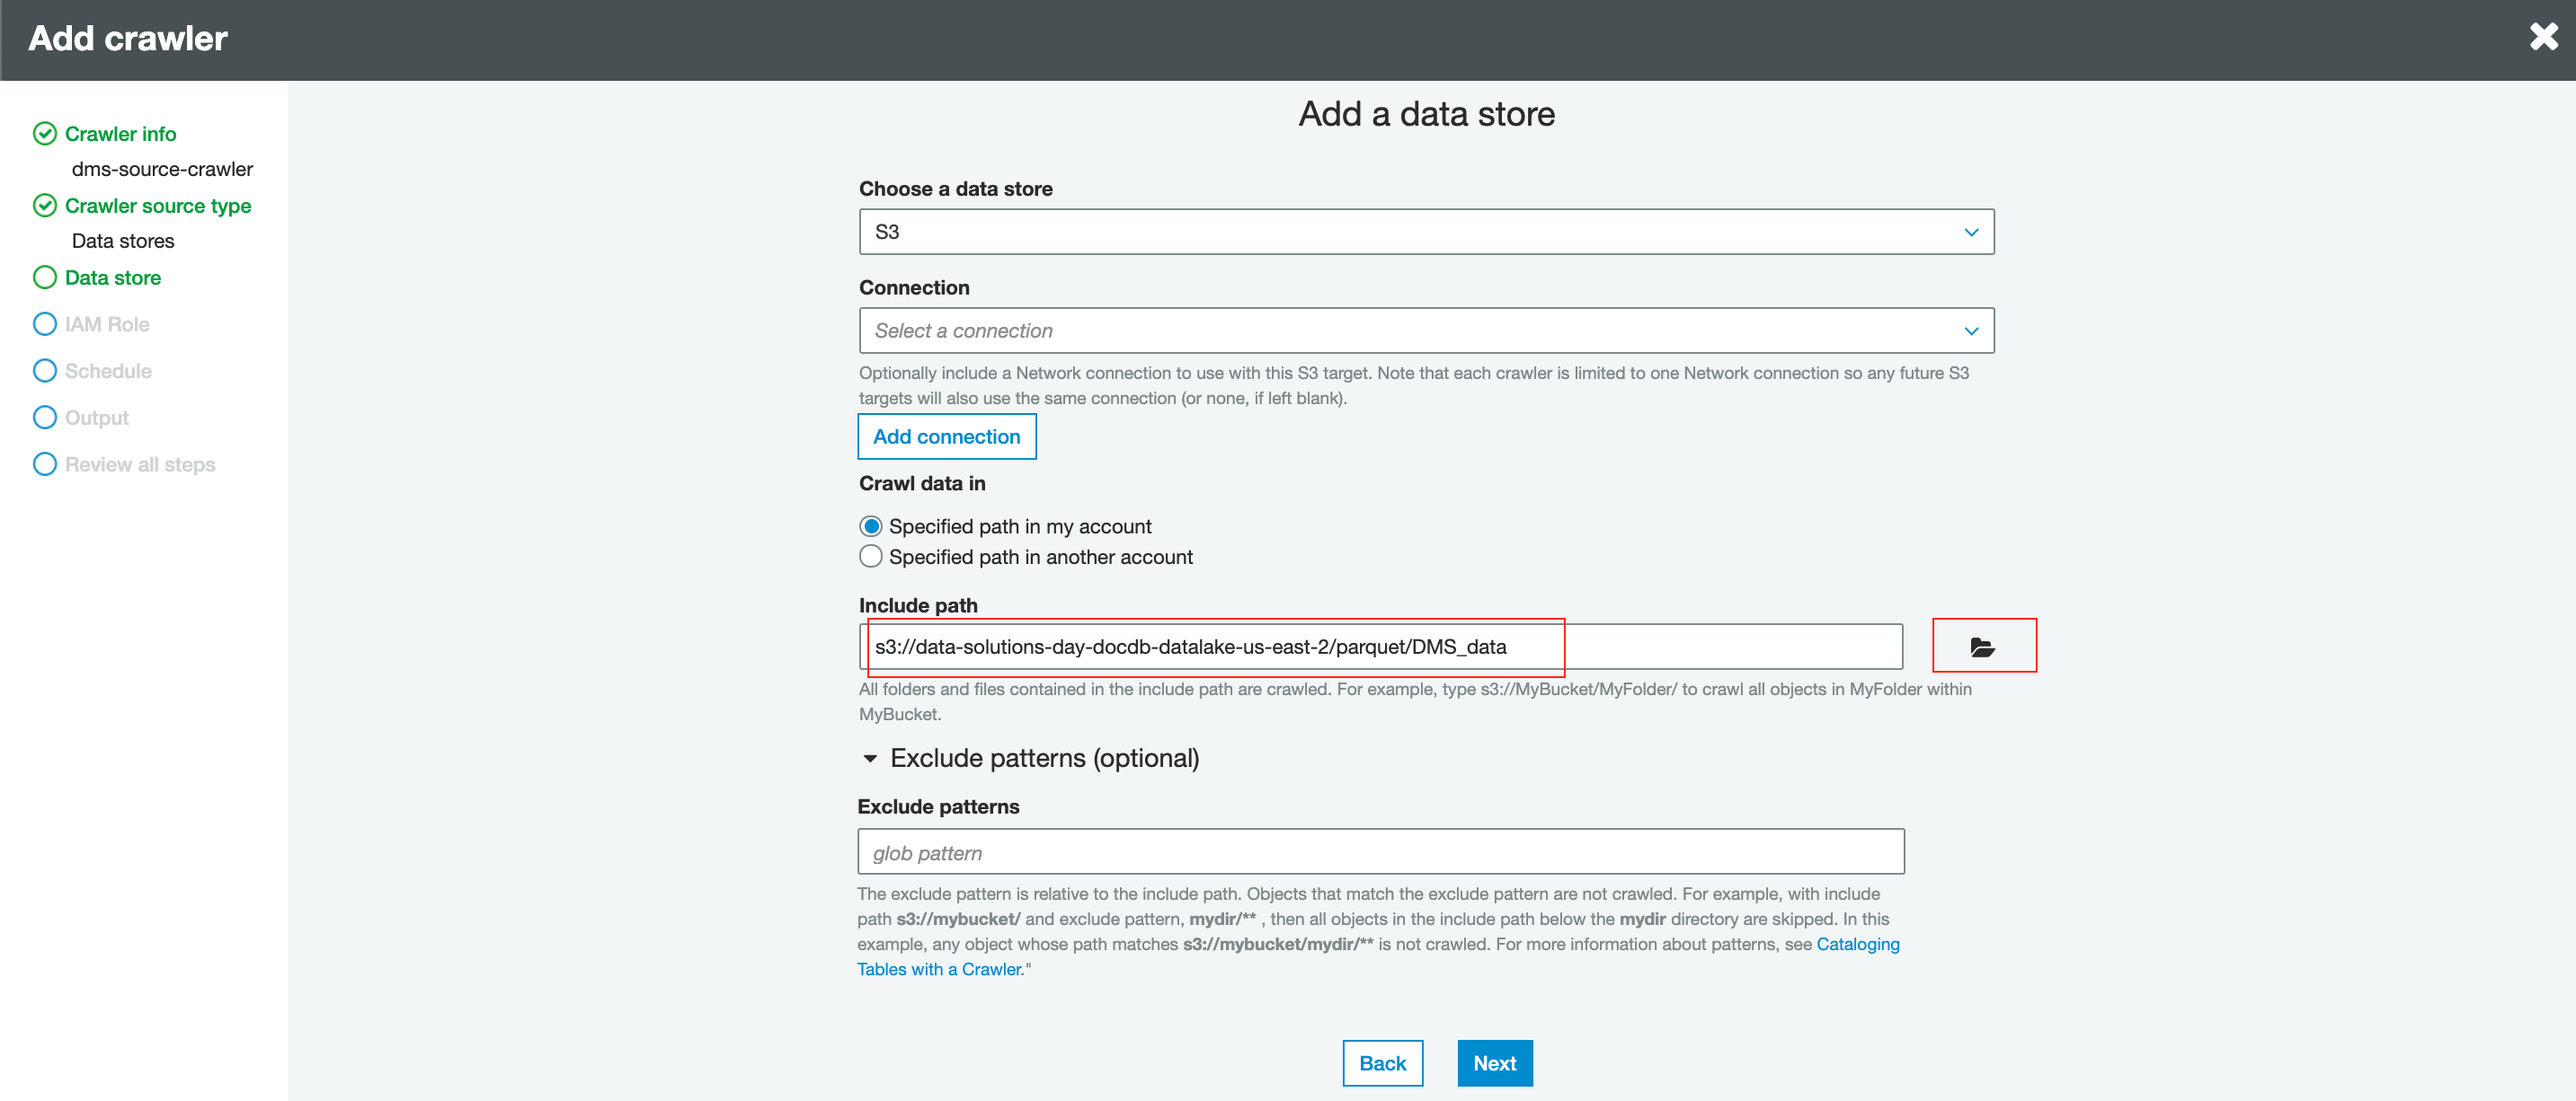
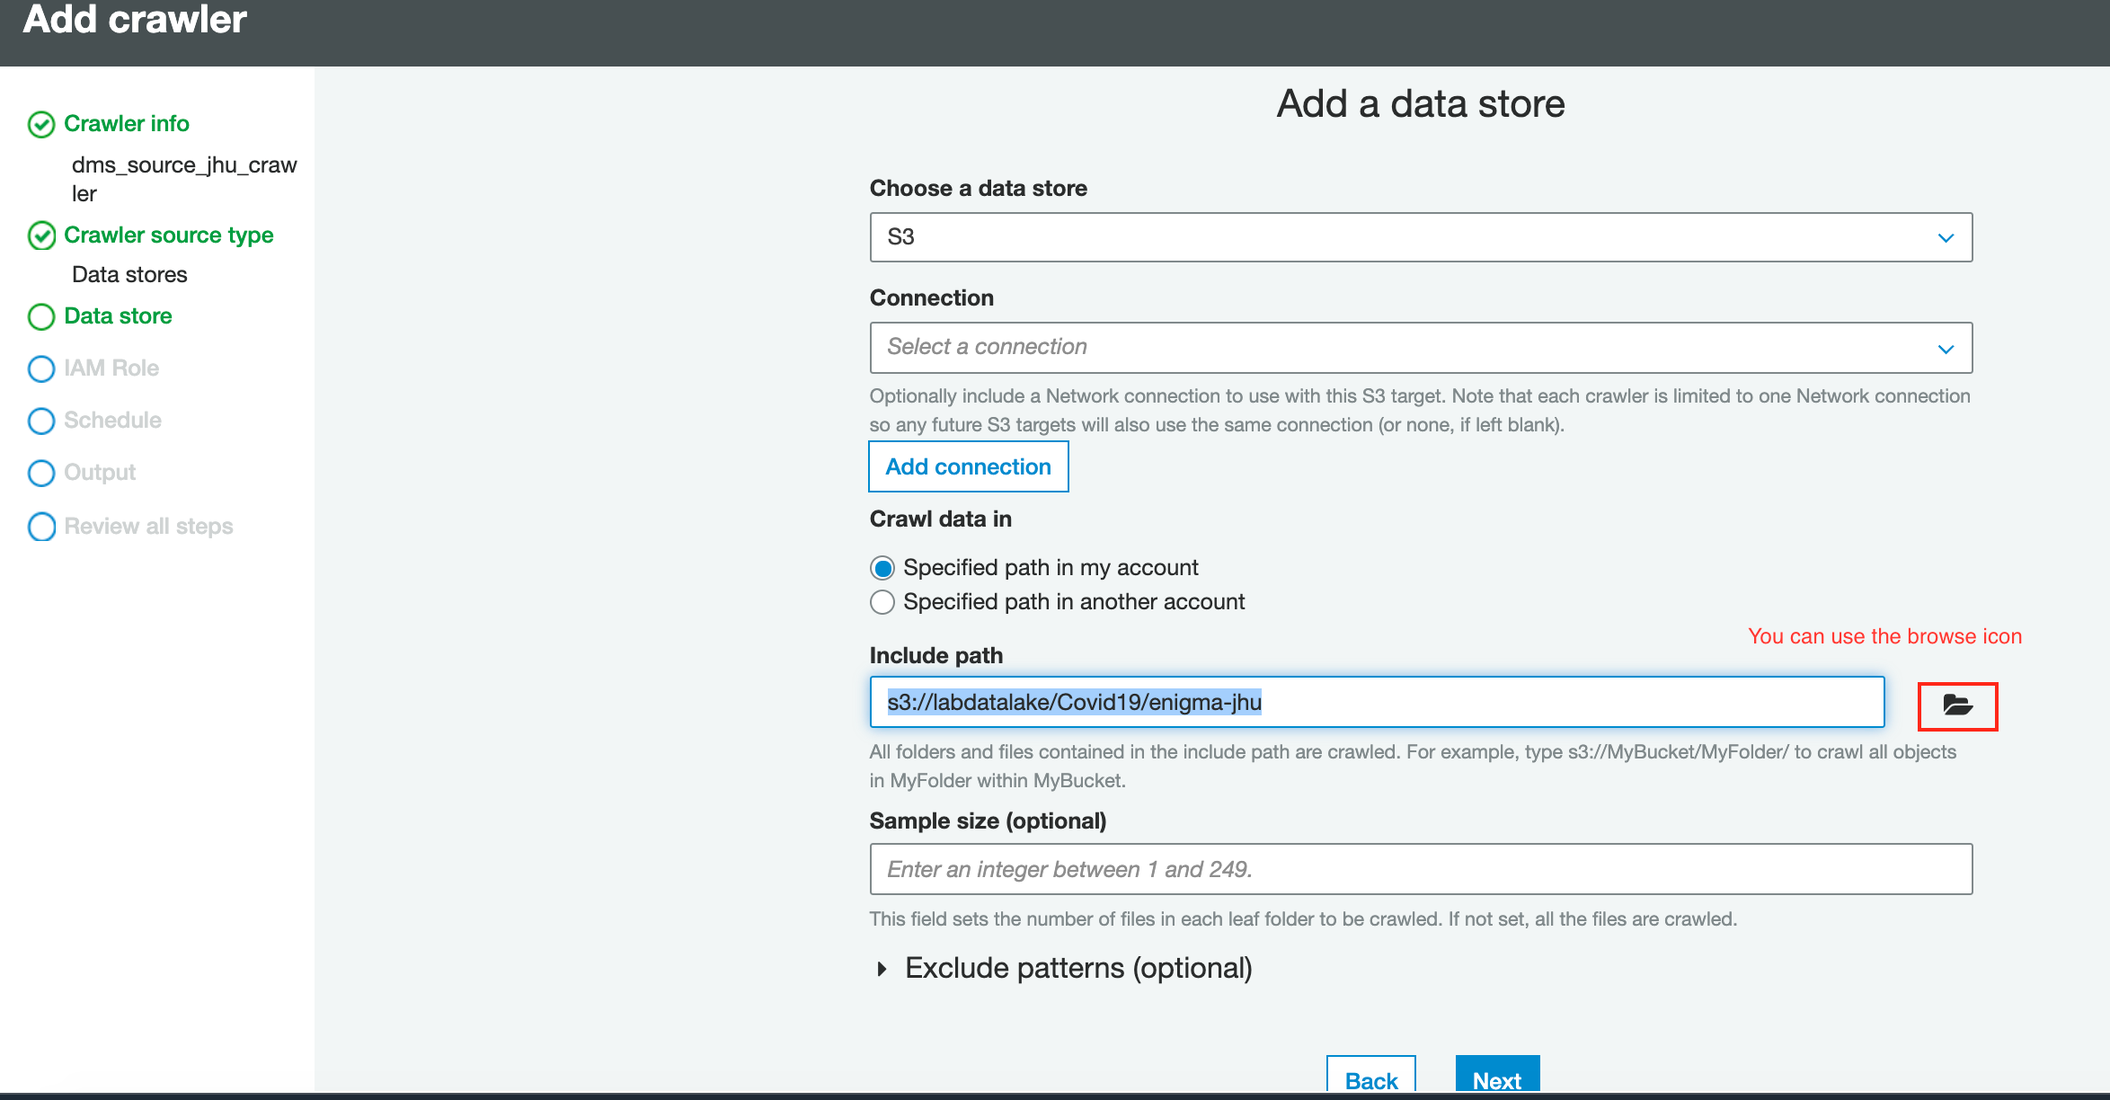
updated data lake exploration labs 1,2,3,4

diff --git a/workshop/content/ExploringDataLake/Lab1/_index.md b/workshop/content/ExploringDataLake/Lab1/_index.md
@@ -1,51 +1,71 @@
 +++
-title = "Create Glue Data Catalog"
+title = " Catalog raw data with Glue crawler "
 date = 2021-03-17T18:13:14-04:00
 weight = 41
 chapter = true
 +++
 
 
-
-1.  Use AWS Management Console to search for `AWS Glue` and if using Google Chrome, right click and open in new tab in the browser as shown
+#### Create Glue crawler #1
+1.  Use AWS Management Console to search for `AWS Glue` and if using Google Chrome, right click and open in new tab in the browser as shown. Make sure region is Ohio.
 {{< img "search-glue.png" "search glue" >}}
-1.1 On Glue console, in left navigation pane, click on Cralwers>Add crawler
+1.1 On [Glue console](https://us-east-2.console.aws.amazon.com/glue/home?region=us-east-2), in left navigation pane, click on Cralwers>Add crawler
 {{< img "crawler-console.png" "go to crawler" >}}
-1.2 Enter Crawler name as `dms-source-crawler` and click Next
+1.2 Enter Crawler name as `dms_source_jhu_crawler` and click Next
 {{< img "crawler1.png" "go to crawler1" >}}
 1.3 Select default selection of Crawler source type as Data stores and Repeat crawls of S3 data stores as Crawl all folders. Click Next       
 1.4 For Add a data store- 
     keep S3 selected, 
     Connection as blank, 
     Crawl data in with Specified path in my account, 
-    Include path select the S3 bucket and folder where the DMS ingested parquet data is stored as shown and click Next
-    {{< img "crawler-datastore.png" "crawler data store" >}}
+    Include path select the S3 bucket and folder where the DMS ingested data is stored as shown `s3://labdatalake/Covid19/enigma-jhu` and click Next
+    {{< img "crawler-datastore.png" "jhu crawler data store" >}}
 1.5 For Add another data store keep default as No and click Next
-1.6 For Choose an IAM role - select as show below and click Next
+1.6 For Choose an IAM role - select as shown below, provide suffix as `labdatalake` and click Next
     {{< img "crawler-role.png" "crawler role" >}}
-1.7 For Schedule, pick Run on demand option and click Next
-1.8 For Output, click on Add database, and input `dms-docdb` as Database name and click Create  
+1.7 For Schedule, pick Run on demand option and click Next    
+1.8 For Output, click on Add database, and input `dms_docdb` as Database name and click Create  
     button. Then click Next after leaving everything thing else as default
     {{< img "crawler-add-database.png" "crawler database" >}}
     {{< img "crawler-add-database2.png" "crawler database2" >}}
-1.9 At last, review everything and click Finish
-    {{< img "crawler-review.png" "crawler review" >}}
+1.9 At last, review everything and click Finish.   
 1.10 It brings you back to Crawler console with a new crawler added. You select it using checkbox 
-    before it and click on Run crawler to run it. You will see as below -
+    before it and click on Run crawler button to run it. You will see as below -
     {{< img "crawler-run.png" "crawler run" >}}
     {{< img "crawler-starting.png" "crawler starting" >}}
     {{< img "crawler-stopping.png" "crawler stopping" >}}
-1.11 Once you see (about in 1 min.) crawler is in Ready status and 2 tables are added
+1.11 Once you see ( takes about 1 min.) crawler is in Ready status and 1 table was added
     {{< img "crawler-ready.png" "crawler ready" >}}
 
-2. From left navigation, click Databases and you will new database got added as below
-    {{< img "check-database.png" "check database" >}}
-    2.1 Click on the database `dms-docdb` and then click on Tables in dms-docdb to see the two tables got added by the crawler. Click on each to explore the schema.
-        {{< img "click-database.png" "click database" >}}
-        {{< img "view-tables.png" "view tables" >}}
-    for example: table1 schema is like this. Similary you can check schema for table2 as well -
-    {{< img "table1-schema1.png" "table1-schema1" >}}
-    {{< img "table1-schema.png" "table1 schema" >}}
+#### Create Glue crawler #2
+2. On Glue console, in left navigation pane, click on Crawlers>Add crawler   
+ 2.1 Enter Crawler name as `dms_source_hosp_bed_crawler` and click Next
+{{< img "crawler2.png" "go to crawler2" >}}
+ 2.2 For Crawler source type keep everything as default and Click Next       
+ 2.3 For Add a data store- 
+    keep S3 selected, 
+    Connection as blank, 
+    Crawl data in with Specified path in my account, 
+    Include path select the S3 bucket and folder where the DMS ingested data is stored as shown `s3://labdatalake/Covid19/rearc-usa-hospital-beds` and click Next
+    {{< img "crawler2-datastore.png" "jhu crawler data store" >}}
+2.4 For Add another data store keep default as No and click Next   
+2.5 For Choose an IAM role - select the first option of *Update a policy in an IAM role* and for IAM role, select the previously created role eg: 
+    `AWSGlueServiceRole-labdatalake` as shown below. This will add the data store path to the role policy to allow Glue to work on your behalf. Click Next
+    {{< img "existing-crawler-role.png" "existing crawler role" >}}
+2.6 For Schedule, pick Run on demand option and click Next   
+2.7 For Output, from drop down pick previously created database `dms_docdb` as Database 
+    Then click Next after leaving everything thing else as default
+    {{< img "crawler-existing-pick-database.png" "crawler pick existing database" >}}
+2.8 At last, review everything and click Finish   
+2.9 It brings you back to Crawler console with the new crawler added. You select it using checkbox 
+    before it and click on Run crawler button to run it as before. It goes through same stages as it did previously.  
+2.10 Once you see (takes about 1 min.) crawler is in Ready status and 1 table was added
+    {{< img "hosp-crawler-ready.png" "hosp-crawler ready" >}}
+
+
+3. From left navigation, click Databases and click on the `dms_docdb` and then click on Tables in dms-docdb to see the two tables got added by the crawler. Click on each to 
+   explore the schema. For example, enigma_jhu schema would look like this -
+   {{< img "enigma_jhu_schema.png" "enigma_jhu_schema" >}}
 
 
 

diff --git a/workshop/content/ExploringDataLake/Lab2/_index.md b/workshop/content/ExploringDataLake/Lab2/_index.md
@@ -1,8 +1,56 @@
 +++
-title = "Query using Athena"
+title = "Transform data using Glue Studio"
 date = 2021-03-17T18:13:14-04:00
 weight = 42
 chapter = true
 +++
 
-`Lab description goes here`
+In this lab we will use the source tables we created using crawlers in previous lab, to create ETL job using AWS Glue Studio. AWS Glue studio provides visual style of ETL coding, making it simple for ETL developers to write spark code. We will leverage Glue's capability to auto create ETL code to convert source data from CSV to PARQUET format. [Parquet](https://parquet.apache.org/) is an open source, columnar file format which very effective for running analytics queries on distributed data engines.
+
+#### Create ETL job#1
+1.  Go to [Glue Studio](https://us-east-2.console.aws.amazon.com/gluestudio/home?region=us-east-2#/) from AWS Management Console or through AWS Glue console and click on Jobs.
+    Ensure AWS region is still us-east-2 or Ohio
+    {{< img "glue-studio-landing.png" "glue-studio-landing" >}}  
+1.1 For the lab our source and target both are on S3, so we will keep the default on Jobs landing page and click Create
+    {{< img "click-create-job.png" "click-create-job" >}}  
+1.2 You will see the Visual canvas as shown below. Click on first object or node on the visual graph, to reveal its configuration properties on the right.
+Input the configuration as shown below
+    {{< img "set-data-source1.png" "set-data-source1" >}}  
+1.3 Next node is ApplyMapping transform node. Click on it provide details for this node configuration. Click on Choose IAM role button and select the same role you created for Glue crawler lab. After the role is selected it will display the columns mapped. You can take actions like dropping, changing data type etc, but leave it as it is for the lab.
+    {{< img "apply-mapping1.png" "apply-mapping1" >}}  
+    {{< img "apply-mapping1-role.png" "apply-mapping1-role" >}}  
+    {{< img "apply-mapping1-display.png" "apply-mapping1-display" >}}  
+1.4 Click on Target node on the graph next. Select Format as Parquet, Compression Type as None and browse and select S3 location as `labdatalake` bucket where data is to be written in parquet.
+    {{< img "etl1-target1.png" "etl1-target1" >}} 
+We have not created target folder so lets add it to the S3 Target Location path as shown, which Glue will create for us. We should have one folder per target table. Since it is parquet data we will store the data under parquet folder. Append `parquet/enigma_jhu/` to the S3 bucket path you have selected OR you could just paste the whole path as `s3://labdatalake/parquet/enigma_jhu/`
+    {{< img "etl1-target1-path.png" "etl1-target1-path" >}}   
+1.5 Next click on Script tab to see the script auto generated by Glue Studio. This is a very good way to learn as well.  
+1.6 Next click on Job details tab. Put Name as `enigma_jhu_parquet_job`
+    Leave everything else as default until you see Job bookmark, select Diable option for that. This is used for incremental jobs, but we are keeping it simple with the lab.
+        {{< img "etl1-job-detail1.png" "etl1-job-detail1" >}} 
+        {{< img "etl1-job-detail2.png" "etl1-job-detail2" >}}   
+1.7 Scroll up and hit Save button to save all the setup  
+    {{< img "etl1-job-save.png" "etl1-job-save" >}}  
+    This will create the job and you can click Run button to run it
+    {{< img "etl1-job-run.png" "etl1-job-run" >}}  
+    Click on Run Details from the green banner or Runs tab on the job to see the progress
+    {{< img "etl1-job-run-status.png" "etl1-job-run-status" >}}  
+    Within couple minutes the job should complete successfully with job status as shown below
+    {{< img "etl1-job-run-success.png" "etl1-job-run-success" >}} 
+1.8 To check the output on S3, lets go back to Visual tab and click on Target S3 node. Click View next to the target location. It will open up S3 console and the target location for data verification. 
+    {{< img "etl1-job-view-data.png" "etl1-job-view-data" >}} 
+    {{< img "etl1-job-s3-file.png" "etl1-job-s3-file" >}} 
+
+#### Create ETL job#2
+2.  Following above steps, create another Glue Studio ETL job with following changes  
+2.1 Data source S3 as Database = `dms_docdb` and Table = `reacr_usa_hospital_beds`  
+2.2 ApplyMapping transform node, IAM Role as same role used as before  
+2.3 Target S3 node with Format = Parquet and S3 target location as `s3://labdatalake/parquet/hospital_beds/`  
+2.4 On Job details tab input following; Name = `hospital_beds_parquet_job`
+    IAM Role = `AWSGlueServiceRole-labdatalake`, Job bookmark = `Disable`.  
+    Click Save.  
+    Once created, click Run.    
+2.5 On the Runs tab for the job, ensure it is successful
+    {{< img "etl2-job-run-success.png" "etl2-job-run-success" >}}   
+2.6 Go back to Visual tab, click on Target S3 node and click on View button, to go to S3 target location to see the parquet file created
+    {{< img "etl2-job-s3-file.png" "etl2-job-s3-file" >}}  

diff --git a/workshop/content/ExploringDataLake/Lab4/_index.md b/workshop/content/ExploringDataLake/Lab4/_index.md
@@ -1,0 +1,75 @@
++++
+title = "Interactive query using Athena"
+date = 2021-03-17T18:13:14-04:00
+weight = 44
+chapter = true
++++
+
+In this lab, we will use interactive query service Athena to query processed and crawled data from previous lab using SQL. Lets get started
+
+1.  Go to [Athena console](https://us-east-2.console.aws.amazon.com/athena/home?region=us-east-2#query). First step is to get Athena setup to query successfully. This is a one-time setup for new accounts.   
+1.1 Click on Settings, input Query result location as `s3://labdatalake/athenaqueryresults/` and click Save.
+    {{< img "athena-settings.png" "athena-settings1" >}} 
+    {{< img "athena-settings2.png" "athena-settings2" >}}   
+1.2 Console is ready to query now. Select Database as `dms_docdb` from left navigation pane.
+    {{< img "athena-query-editor.png" "athena-query-editor" >}}    
+1.3 You cannot run multiple queries at the same time, so run below queries one by one OR copy and paste both but select and highlight one and run it one at a time by doing the same. OR use multiple query tabs
+```bash
+SELECT * FROM "dms_docdb"."parquet_enigma_jhu" limit 10;
+```
+```bash
+SELECT * FROM "dms_docdb"."parquet_hospital_beds" limit 10;
+```
+
+This way you can query parquet files on S3 location directly using SQL on Athena. Notice the Run time and Data scanned metrics.
+{{< img "athena-query1.png" "athena-query1" >}} 
+
+1.4 Lets run another query using both the tables to see the growth of confirmed Covid cases joined side-by-side with hospital bed availability, broken down by US county
+
+```bash
+    SELECT 
+    cases.fips, 
+    admin2 as county, 
+    province_state, 
+    confirmed,
+    growth_count, 
+    sum(num_licensed_beds) as num_licensed_beds, 
+    sum(num_staffed_beds) as num_staffed_beds, 
+    sum(num_icu_beds) as num_icu_beds
+    FROM 
+    "covid-19"."hospital_beds" beds, 
+    ( SELECT 
+        fips, 
+        admin2, 
+        province_state, 
+        confirmed, 
+        last_value(confirmed) over (partition by fips order by last_update) - first_value(confirmed) over (partition by fips order by last_update) as growth_count,
+        first_value(last_update) over (partition by fips order by last_update desc) as most_recent,
+        last_update
+        FROM  
+        "covid-19"."enigma_jhu" 
+        WHERE 
+        country_region = 'US') cases
+    WHERE 
+    beds.fips = cases.fips AND last_update = most_recent
+    GROUP BY cases.fips, confirmed, growth_count, admin2, province_state
+    ORDER BY growth_count desc
+```
+
+{{< img "athena-query2.png" "athena-query2" >}} 
+
+1.5 In Athena you can do several things with this query
+    a.  You can use Save as to save this query, so that you can come back to it everytime you want to run it. Lets click on Save as button
+    {{< img "athena-query-saveas1.png" "athena-query-saveas1" >}}   
+    {{< img "athena-query-saveas2.png" "athena-query-saveas2" >}}  
+    Click on Saved queries tab on the top, to access it  
+    {{< img "athena-saved-query.png" "athena-saved-query" >}}  
+    b.  You can create a View. From the same query editor tab, now click on Create button as shown to select `Create view from query` option.  
+    {{< img "athena-create-view.png" "athena-create-view" >}}   
+    Provide name as `covid_cases_by_usa_view` and click on Create button  
+    {{< img "athena-create-view2.png" "athena-create-view2" >}} 
+    {{< img "athena-create-view3.png" "athena-create-view3" >}} 
+    c.  You can create a Table **(Try on your own)**
+        You will provide S3 location and file format you want to store data into this new table. This gives analyst simple ETL mechanism using SQL where they can deploy ETL logic and create a table and data files on another S3 location. They may need for intermediate processing or sharing it with other users.
+
+With this you are done trying out how you can leverage Athena for your interactive data query needs on your data lake. This gives you a powerful tool in the hands of your data analysts or data scientists to explore data using SQL. In the next lab we will use Amazon Quicksight to create some visuals and dashboards to show how easily you can consume same data on data lake via different types of tools.

diff --git a/workshop/content/ExploringDataLake/Lab3/_index.md b/workshop/content/ExploringDataLake/Lab3/_index.md
@@ -1,8 +1,23 @@
 +++
-title = "Visualize using Quicksight"
+title = "Catalog transformed data with Glue crawler"
 date = 2021-03-17T18:13:14-04:00
 weight = 43
 chapter = true
 +++
 
-`Lab description goes here`
+#### Create crawler for the processed data
+1.  Go to [Glue crawler](https://us-east-2.console.aws.amazon.com/glue/home?region=us-east-2#catalog:tab=crawlers) again to create another crawler.  
+1.1 Click on Add crawler and input as below
+    On Crawler info> Crawler name = `lab_parquet_crawler`. Click Next.
+    For Data store, Include path as `s3://labdatalake/parquet/`
+    For IAM role, select Choose an existing IAM role and pick the one with `labdatalake` in the name we have been using all along.
+    For output, select the `dms_docdb` and for prefix input `parquet_` to differentiate tables in the same database for the lab.
+    Finally, Finish and run the crawler as before.   
+1.2 Crawler will run and add 2 tables as shown below:
+    {{< img "crawler-parquet.png" "crawler-parquet" >}}   
+1.3 For validation, From Glue console - click on Databases> Click the database `dms_docdb`. Click on Tables in dms_docdb  
+1.4 You should see two tables with parquet_ as prefix. Click on them to explore the schema. For example: schema for parquet_enigma_jhu will look like this below 
+    {{< img "parquet-schema1.png" "parquet-schema1" >}} 
+    {{< img "parquet-schema2.png" "parquet-schema2" >}} 
+
+You are now ready to use consumption services like Athena or Quicksight to explore transformed data and do analytics on top of it in next labs using the Glue data catalog objects.

diff --git a/workshop/content/ExploringDataLake/_index.md b/workshop/content/ExploringDataLake/_index.md
@@ -1,5 +1,5 @@
 +++
-title = "Lab 03: Analytics using Glue, Athena and Quicksight"
+title = "Lab 03: Work with in data lake using Glue, Athena and Quicksight"
 date = 2021-03-17T18:13:14-04:00
 weight = 40
 chapter = true

diff --git a/workshop/content/ExploringDataLake/Lab5/_index.md b/workshop/content/ExploringDataLake/Lab5/_index.md
@@ -1,0 +1,7 @@
++++
+title = "Visualize data using Quicksight"
+date = 2021-03-17T18:13:14-04:00
+weight = 45
+chapter = true
++++
+
